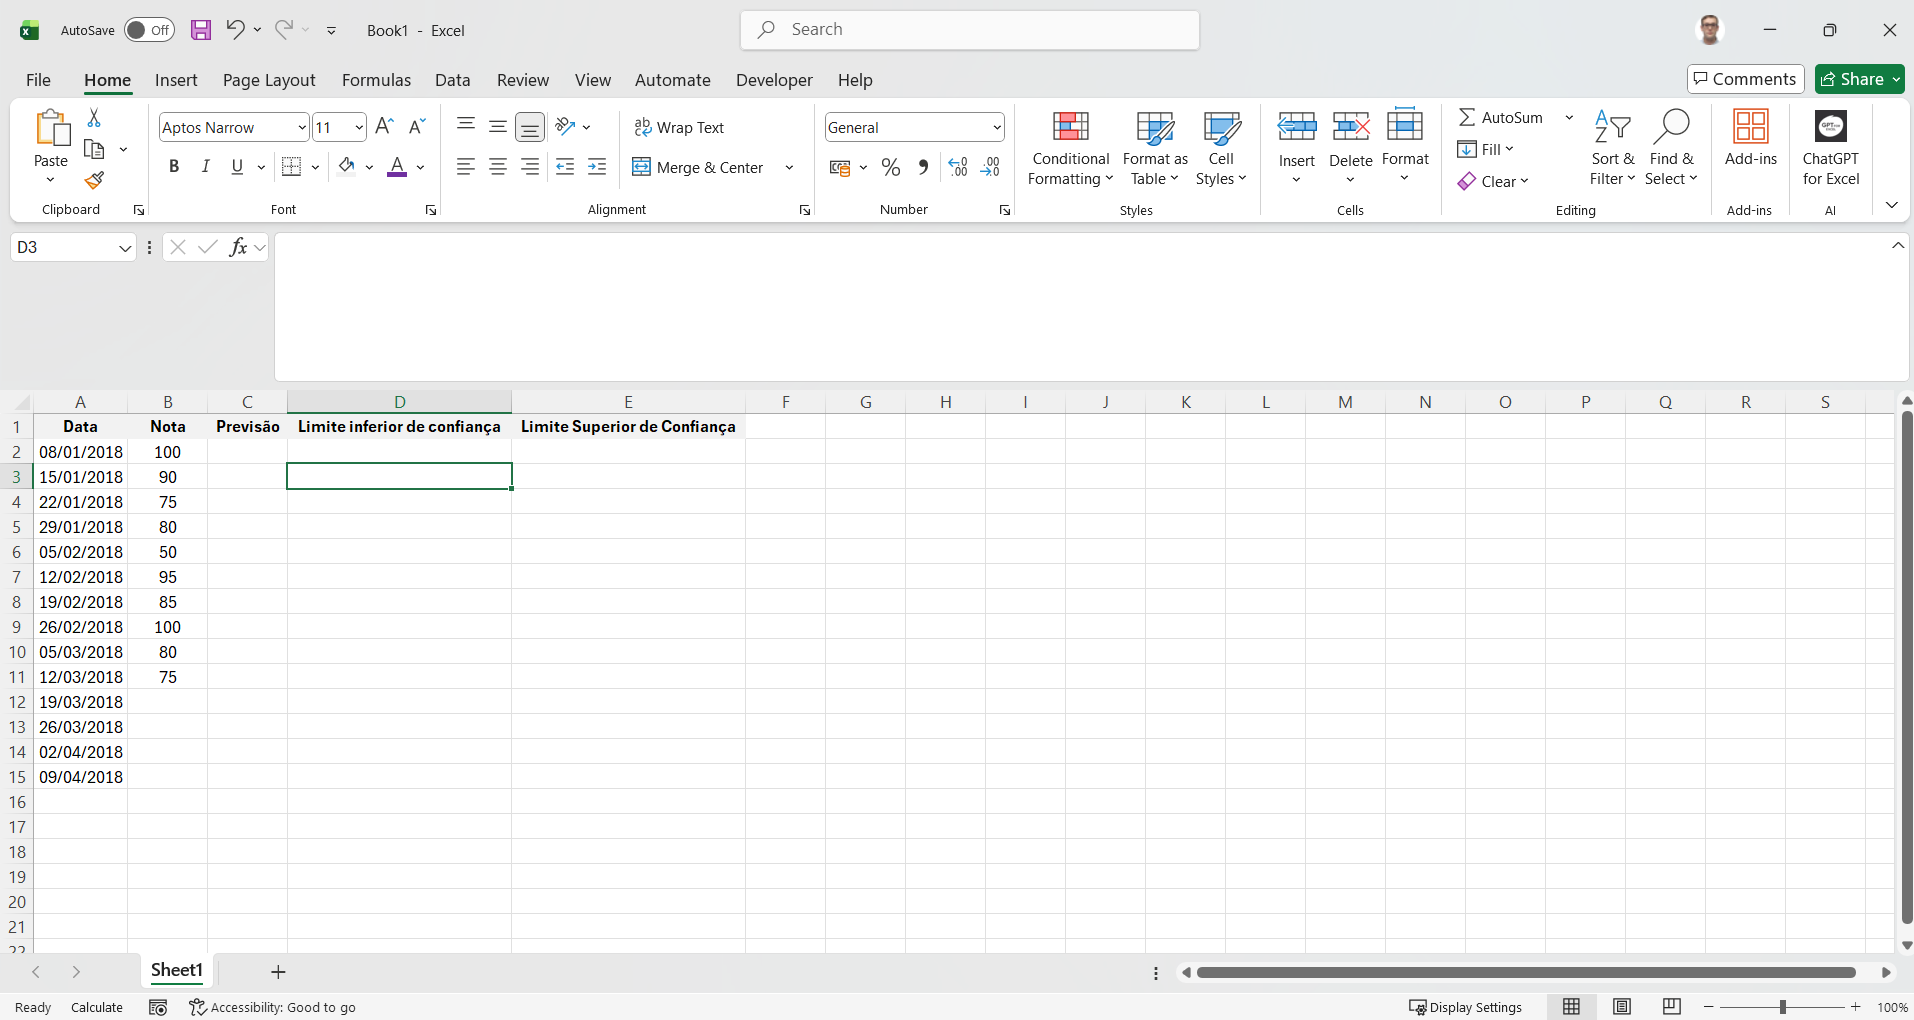
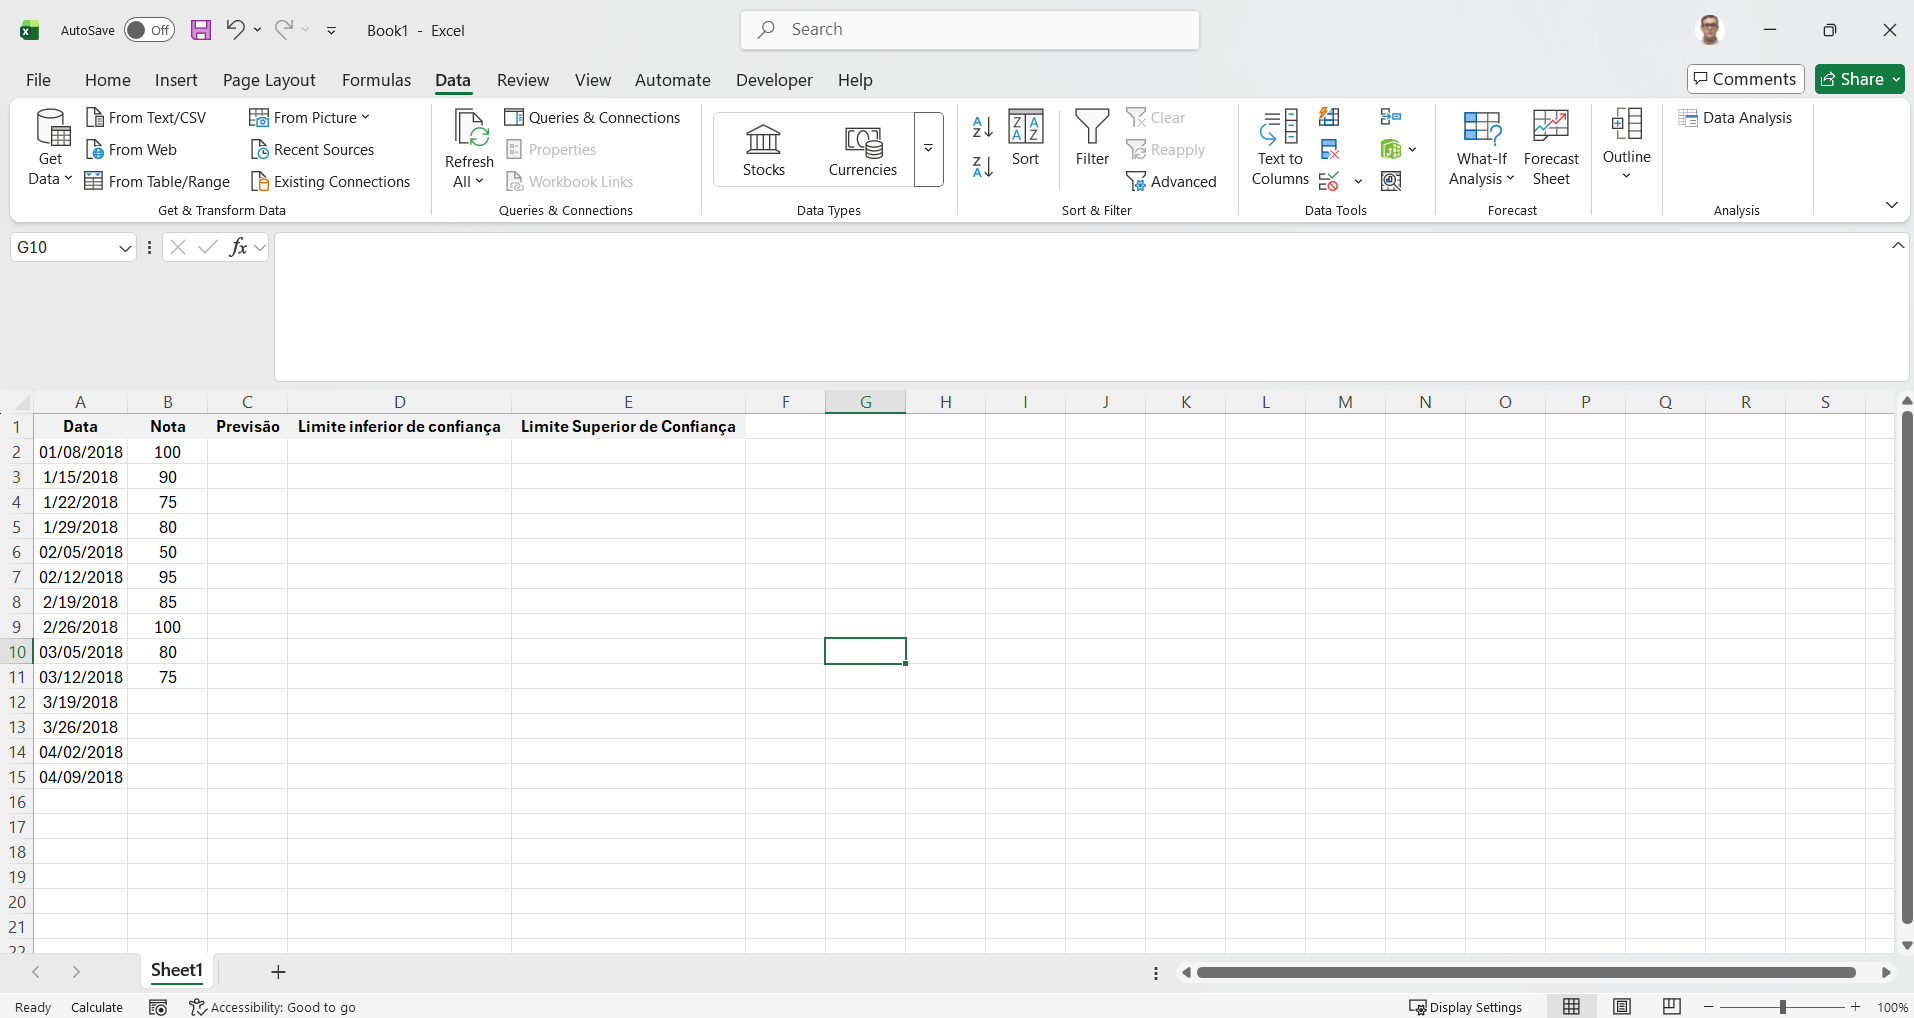
Update labs: 004, 005, 015 e 017
Correções

diff --git a/labs/lab_017/README.md b/labs/lab_017/README.md
@@ -1,10 +1,10 @@
-# LLaboratório - Projetar um protótipo de um aplicativo de IA   <img src="./0-aux/logo_course.png" alt="lab_017" width="auto" height="45">
+# Laboratório - Projetar um protótipo de um aplicativo de IA   <img src="./0-aux/logo_course.png" alt="lab_017" width="auto" height="45">
 
 ### Cisco: <a href="../../">cisco   <img src="https://github.com/PedroHeeger/my_tech_journey/blob/main/platforms/img/cisco.png" alt="cisco" width="auto" height="25"></a>
 ### Cisco Networking Academy: cna   <img src="https://github.com/PedroHeeger/my_tech_journey/blob/main/platforms/img/cna.png" alt="cna" width="auto" height="25"></a>
 ### Training Category: <a href="../../self_paced/">self-paced</a>
 ### Software/Subject: iot   <img src="https://github.com/PedroHeeger/main/blob/main/0-aux/logos/content/iot.jpg" alt="iot" width="auto" height="25"></a>
-### Course: <a href="./">lab_017 (LLaboratório - Projetar um protótipo de um aplicativo de IA)   <img src="./0-aux/logo_course.png" alt="lab_017" width="auto" height="25"></a>
+### Course: <a href="./">lab_017 (Laboratório - Projetar um protótipo de um aplicativo de IA)   <img src="./0-aux/logo_course.png" alt="lab_017" width="auto" height="25"></a>
 
 ---
 

diff --git a/labs/lab_015/README.md b/labs/lab_015/README.md
@@ -3,7 +3,7 @@
 ### Cisco: <a href="../../">cisco   <img src="https://github.com/PedroHeeger/my_tech_journey/blob/main/platforms/img/cisco.png" alt="cisco" width="auto" height="25"></a>
 ### Cisco Networking Academy: cna   <img src="https://github.com/PedroHeeger/my_tech_journey/blob/main/platforms/img/cna.png" alt="cna" width="auto" height="25"></a>
 ### Training Category: <a href="../../self_paced/">self-paced</a>
-### Software/Subject: big_data   <img src="https://github.com/PedroHeeger/main/blob/main/0-aux/logos/content/big_data.jpg" alt="big_data" width="auto" height="25"></a>
+### Software/Subject: Excel   <img src="https://github.com/PedroHeeger/main/blob/main/0-aux/logos/software/microsoft_excel.png" alt="excel" width="auto" height="25"></a>
 ### Course: <a href="./">lab_015 (Laboratório - Use o Excel para fazer previsões)   <img src="./0-aux/logo_course.png" alt="lab_015" width="auto" height="25"></a>
 
 ---

diff --git a/labs/lab_005/README.md b/labs/lab_005/README.md
@@ -3,7 +3,7 @@
 ### Cisco: <a href="../../">cisco   <img src="https://github.com/PedroHeeger/my_tech_journey/blob/main/platforms/img/cisco.png" alt="cisco" width="auto" height="25"></a>
 ### Cisco Networking Academy: cna   <img src="https://github.com/PedroHeeger/my_tech_journey/blob/main/platforms/img/cna.png" alt="cna" width="auto" height="25"></a>
 ### Training Category: <a href="../../self_paced/">self-paced</a>
-### Software/Subject: network   <img src="https://github.com/PedroHeeger/main/blob/main/0-aux/logos/content/network.jpg" alt="network" width="auto" height="25"></a>
+### Software/Subject: iot   <img src="https://github.com/PedroHeeger/main/blob/main/0-aux/logos/content/iot.jpg" alt="iot" width="auto" height="25"></a>
 ### Course: <a href="./">lab_005 (Laboratório - Vantagens e desvantagens dos dispositivos de IoT)   <img src="./0-aux/logo_course.png" alt="lab_005" width="auto" height="25"></a>
 
 ---

diff --git a/labs/lab_004/README.md b/labs/lab_004/README.md
@@ -3,7 +3,7 @@
 ### Cisco: <a href="../../">cisco   <img src="https://github.com/PedroHeeger/my_tech_journey/blob/main/platforms/img/cisco.png" alt="cisco" width="auto" height="25"></a>
 ### Cisco Networking Academy: cna   <img src="https://github.com/PedroHeeger/my_tech_journey/blob/main/platforms/img/cna.png" alt="cna" width="auto" height="25"></a>
 ### Training Category: <a href="../../self_paced/">self-paced</a>
-### Software/Subject: network   <img src="https://github.com/PedroHeeger/main/blob/main/0-aux/logos/content/network.jpg" alt="network" width="auto" height="25"></a>
+### Software/Subject: iot   <img src="https://github.com/PedroHeeger/main/blob/main/0-aux/logos/content/iot.jpg" alt="iot" width="auto" height="25"></a>
 ### Course: <a href="./">lab_004 (Laboratório - Imagine um novo sensor inteligente)   <img src="./0-aux/logo_course.png" alt="lab_004" width="auto" height="25"></a>
 
 ---
